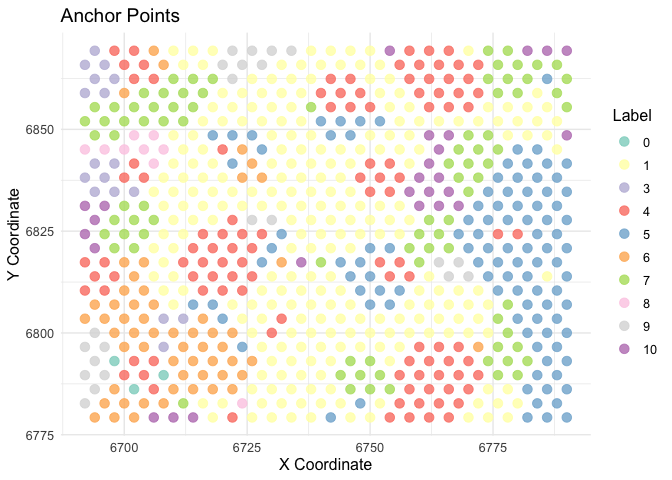
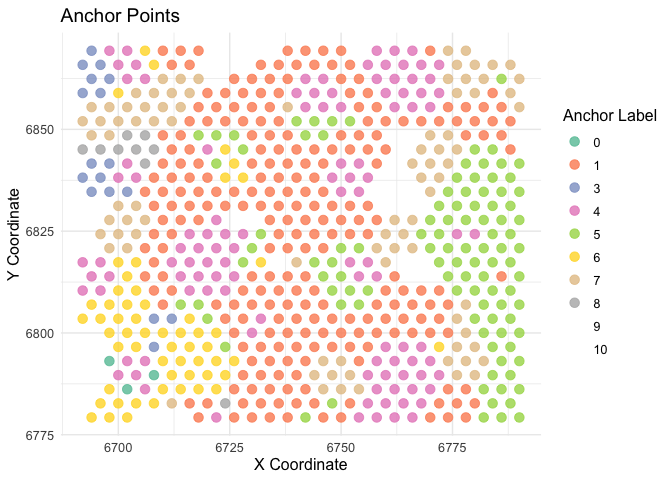
changed visualization color palette and updated README with extra visualization

diff --git a/README.md b/README.md
@@ -68,6 +68,10 @@ mouse_transcripts <- fictureR::mouse_transcripts
 visualizer(mouse_anchors %>% filter(x >= 6690.1, x <= 6790.1,
                                     y >= 6772, y <= 6872), 
            type = c("anchor"))
+#> Warning in RColorBrewer::brewer.pal(n, pal): n too large, allowed maximum for palette Set2 is 8
+#> Returning the palette you asked for with that many colors
+#> Warning: Removed 48 rows containing missing values or values outside the scale range
+#> (`geom_point()`).
 ```
 
 <img src="man/figures/README-example-1.png" width="100%" />
@@ -75,15 +79,27 @@ visualizer(mouse_anchors %>% filter(x >= 6690.1, x <= 6790.1,
 ``` r
 
 # Decoding input data
-
-mouse_output <- fictureR::mouse_output
-# Generated with the following code
 # mouse_output <- slda_decoder(mouse_transcripts, mouse_anchors, scale = 100)
 
-# 
-# # Updated anchor assignments following decoding
-# visualizer(mouse_output$anchor, type = c("anchor"))
-# 
-# # Visualization of pixel data following decoding
-# visualizer(mouse_output$pixel, type = c("pixel"))
+
+# Updated anchor assignments following decoding
+visualizer(fictureR::mouse_updated_anchor, type = c("anchor"))
+#> Warning in RColorBrewer::brewer.pal(n, pal): n too large, allowed maximum for palette Set2 is 8
+#> Returning the palette you asked for with that many colors
+#> Warning: Removed 19 rows containing missing values or values outside the scale range
+#> (`geom_point()`).
 ```
+
+<img src="man/figures/README-example-2.png" width="100%" />
+
+``` r
+# 
+# Visualization of pixel data following decoding
+visualizer(fictureR::mouse_pixel, type = c("pixel"))
+#> Warning in RColorBrewer::brewer.pal(n, pal): n too large, allowed maximum for palette Set2 is 8
+#> Returning the palette you asked for with that many colors
+#> Warning: Removed 757 rows containing missing values or values outside the scale range
+#> (`geom_point()`).
+```
+
+<img src="man/figures/README-example-3.png" width="100%" />
